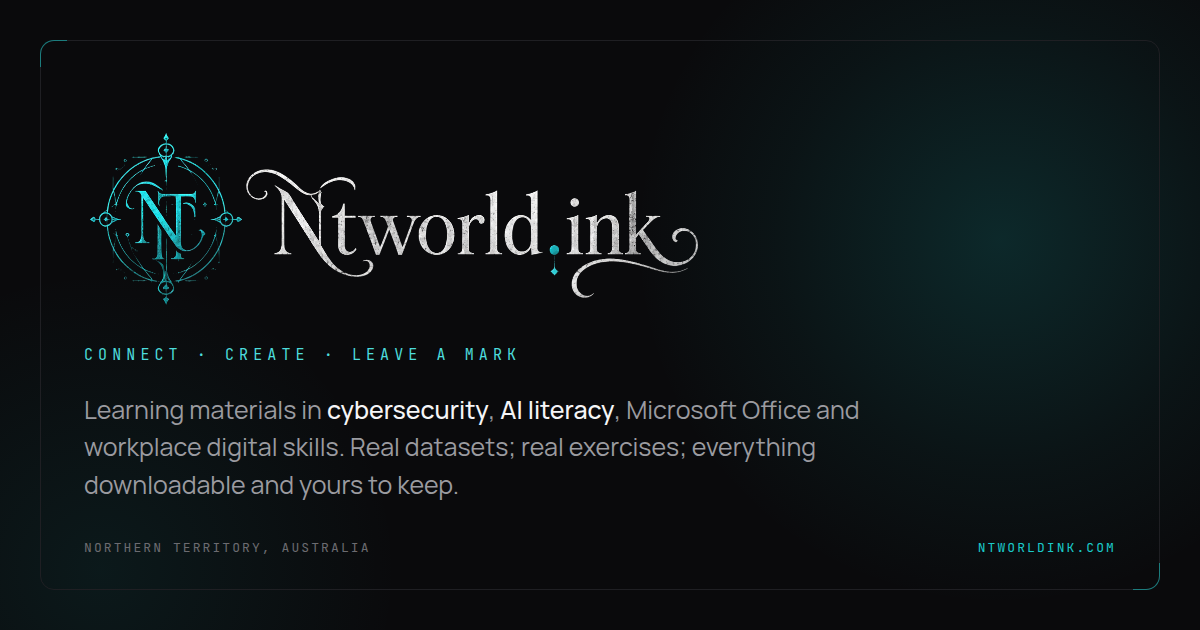
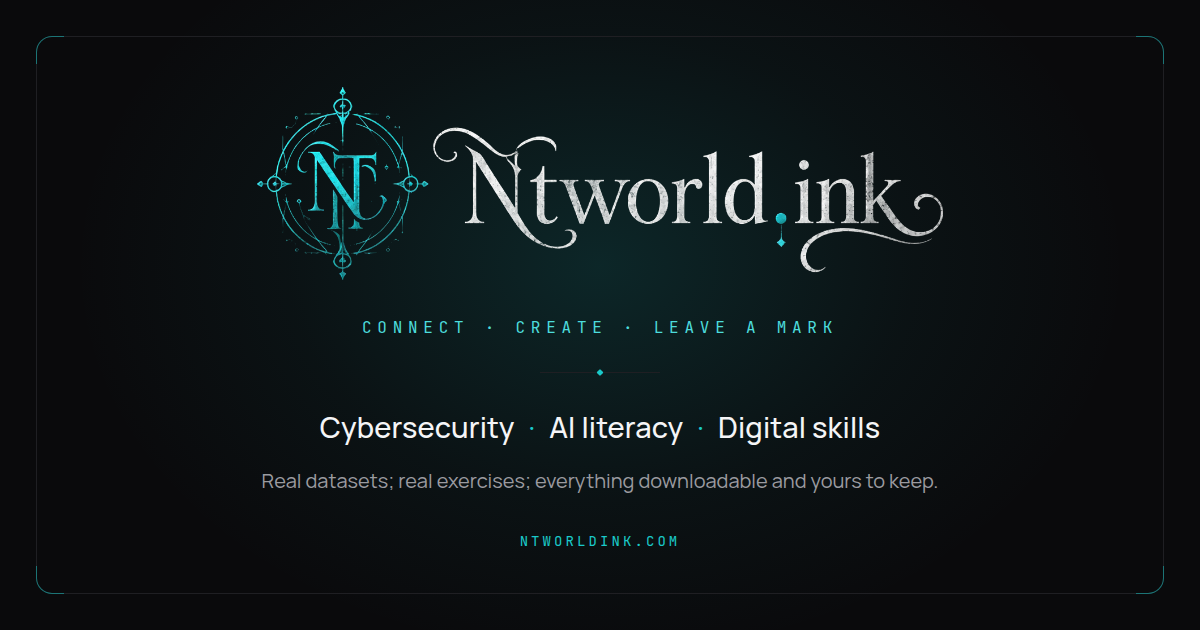
socials card

diff --git a/tools/social-card/social-card.html b/tools/social-card/social-card.html
@@ -1,0 +1,93 @@
+<!DOCTYPE html>
+<html lang="en-AU">
+<head>
+<!-- Source for assets/brand/ntwi-social-card.png. See README.md in this folder. -->
+<meta charset="utf-8">
+<link rel="preconnect" href="https://fonts.googleapis.com">
+<link rel="preconnect" href="https://fonts.gstatic.com" crossorigin>
+<link href="https://fonts.googleapis.com/css2?family=Manrope:wght@400;500&family=JetBrains+Mono:wght@400&display=swap" rel="stylesheet">
+<style>
+
+  :root {
+    --bg:#0a0a0c; --text:#f5f5f7; --text-2:#9b9ba0; --text-3:#6b6b70;
+    --accent:#1ac9c9; --accent-2:#4ddcdc; --rule:#1f1f23;
+  }
+  * { margin:0; padding:0; box-sizing:border-box; }
+  body { width:1200px; height:630px; background:var(--bg); overflow:hidden; }
+
+  .card {
+    position:relative; width:1200px; height:630px;
+    display:flex; flex-direction:column; align-items:center; justify-content:center;
+    text-align:center;
+  }
+
+  /* Symmetrical glow, so neither side out-weighs the other */
+  .glow {
+    position:absolute; left:50%; top:50%; transform:translate(-50%,-56%);
+    width:1100px; height:820px;
+    background:radial-gradient(ellipse at center, rgba(26,201,201,0.15) 0%, rgba(26,201,201,0.045) 40%, rgba(26,201,201,0) 68%);
+  }
+
+  .frame {
+    position:absolute; inset:36px; border:1px solid var(--rule); border-radius:16px;
+  }
+  .frame span {
+    position:absolute; width:28px; height:28px; border:1px solid rgba(26,201,201,0.5);
+  }
+  .frame span:nth-child(1){ top:-1px; left:-1px; border-right:none; border-bottom:none; border-radius:16px 0 0 0; }
+  .frame span:nth-child(2){ top:-1px; right:-1px; border-left:none; border-bottom:none; border-radius:0 16px 0 0; }
+  .frame span:nth-child(3){ bottom:-1px; left:-1px; border-right:none; border-top:none; border-radius:0 0 0 16px; }
+  .frame span:nth-child(4){ bottom:-1px; right:-1px; border-left:none; border-top:none; border-radius:0 0 16px 0; }
+
+  .inner { position:relative; z-index:2; display:flex; flex-direction:column; align-items:center; }
+
+  .lockup { width:700px; display:block; }
+
+  .tagline {
+    font-family:'JetBrains Mono', monospace; font-size:16px; letter-spacing:0.36em;
+    text-transform:uppercase; color:var(--accent-2); margin-top:30px;
+  }
+
+  .divider {
+    width:120px; height:1px; background:var(--rule); margin:34px 0;
+    position:relative;
+  }
+  .divider::after {
+    content:''; position:absolute; left:50%; top:-2px; transform:translateX(-50%) rotate(45deg);
+    width:5px; height:5px; background:var(--accent); border-radius:1px;
+  }
+
+  .subjects {
+    font-family:'Manrope', sans-serif; font-size:29px; font-weight:500; color:var(--text);
+    letter-spacing:0.005em;
+  }
+  .subjects .sep { color:var(--accent); font-weight:400; margin:0 14px; }
+
+  .lead {
+    font-family:'Manrope', sans-serif; font-size:20px; font-weight:400; color:var(--text-2);
+    margin-top:20px;
+  }
+
+  .domain {
+    margin-top:38px;
+    font-family:'JetBrains Mono', monospace; font-size:14px; letter-spacing:0.22em;
+    text-transform:uppercase; color:var(--accent);
+  }
+</style>
+</head>
+<body>
+  <div class="card">
+    <div class="glow"></div>
+    <div class="frame"><span></span><span></span><span></span><span></span></div>
+
+    <div class="inner">
+      <img class="lockup" src="../../assets/brand/ntwi-logo-lockup-transparent.png" alt="ntworld.ink">
+      <div class="tagline">connect &middot; create &middot; leave a mark</div>
+      <div class="divider"></div>
+      <div class="subjects">Cybersecurity<span class="sep">&middot;</span>AI literacy<span class="sep">&middot;</span>Digital skills</div>
+      <p class="lead">Real datasets; real exercises; everything downloadable and yours to keep.</p>
+      <div class="domain">ntworldink.com</div>
+    </div>
+  </div>
+</body>
+</html>

diff --git a/tools/social-card/README.md b/tools/social-card/README.md
@@ -1,0 +1,34 @@
+# tools/social-card/
+
+Source for `assets/brand/ntwi-social-card.png`, the 1200 by 630 image every page uses as its link preview.
+
+The card is an HTML page rendered to a PNG rather than an image file to be retouched. Change the wording or the layout in `social-card.html`, render it again, and overwrite the PNG; the meta tags never need to change, because the path stays the same.
+
+## Rendering it
+
+The reliable way, if you have Node and Playwright to hand:
+
+```
+npx playwright screenshot --viewport-size=1200,630 \
+  tools/social-card/social-card.html \
+  assets/brand/ntwi-social-card.png
+```
+
+By hand, if you would rather: open `social-card.html` in Chrome, open developer tools, set the device toolbar to 1200 by 630, and use "Capture screenshot" from the command menu. Check the result is exactly 1200 by 630 before committing it, since the tags declare those dimensions.
+
+The page pulls Manrope and JetBrains Mono from Google Fonts, so render it with a network connection or the type falls back and the spacing shifts.
+
+## What it must keep
+
+- Exactly 1200 by 630. `tools/add-meta.js` declares those dimensions in `og:image:width` and `og:image:height`, and a mismatch makes some platforms crop or reject the card.
+- Under about 1MB. Well within every platform's limit, and the current file is around 270KB.
+- The wordmark legible at roughly a fifth of full size. Link previews in chat apps are small, and a card that only works at full size reads as a smudge where it actually appears. Check any change at thumbnail size before committing it.
+- Nothing important within about 40 pixels of the edge. Some platforms crop to a squarer ratio.
+
+## After changing it
+
+Platforms cache link previews, so an updated card does not appear straight away on a URL that has already been shared. Force a re-scrape with the platform's own tool: Facebook and Instagram use the Sharing Debugger, LinkedIn uses Post Inspector. For chat apps that offer no tool, sharing the URL with a query string on the end, such as `?v=2`, fetches it fresh and is a quick way to confirm the new card is live.
+
+## Per-section cards
+
+One card serves the whole site. If sections ever want their own, add an image per section and change `CARD` in `tools/add-meta.js` to pick one by URL prefix. Nothing else in the pipeline would need to move.

diff --git a/CLAUDE.md b/CLAUDE.md
@@ -172,13 +172,15 @@ The short version for anyone building a page: this is the **cover mark**, for th
 
 ### Social card and icons
 
-Built 8 August 2026 from these files. `assets/brand/ntwi-social-card.png` is the 1200 by 630 card every page shares: the lockup on the site's near-black ground, the tagline, the homepage lead paragraph and the domain. It was rendered from an HTML template, so it can be rebuilt or restyled rather than retouched.
+Built 8 August 2026 from these files. `assets/brand/ntwi-social-card.png` is the 1200 by 630 card every page shares: a centred composition, the lockup over the tagline, then the three subjects and the domain, on the site's near-black ground with a symmetrical teal glow. The source is `tools/social-card/social-card.html`, rendered to a PNG rather than retouched, with its own README covering how to render it and what the card must keep. The first cut was left-weighted and read as dead space at thumbnail size; link previews are small, so check any change at about a fifth of full size before committing it.
 
 The icons follow the README's rule that the site mark is the CSS star, not the ornate mark: `favicon.svg` redraws `.brand-mark` with slightly heavier strokes so it survives at 16 pixels, with `favicon-32.png` as a fallback and `apple-touch-icon.png` at 180 pixels on a solid dark ground.
 
 `tools/add-meta.js` writes the Open Graph and Twitter tags, the canonical URL and the icon links into all 166 pages, decks included, in a marked block it rewrites on each run. Titles come from `search-index.json`, so a title shortened in `index-meta.json` is the one that shows when a link is shared.
 
 One card serves every page. Per-section cards would need one image per section and a change to `CARD` in the script.
+
+Platforms cache link previews, so a page shared before the tags went live keeps showing the old blank preview until it is scraped again. Adding a query string such as `?v=2` to the URL is the quick way to check the current state.
 
 Still outstanding: 44 pages have no `<meta name="description">` and fall back to the site default, so they all share the same preview text. Most are simulation tools. `node tools/add-meta.js --dry-run` lists them.
 
